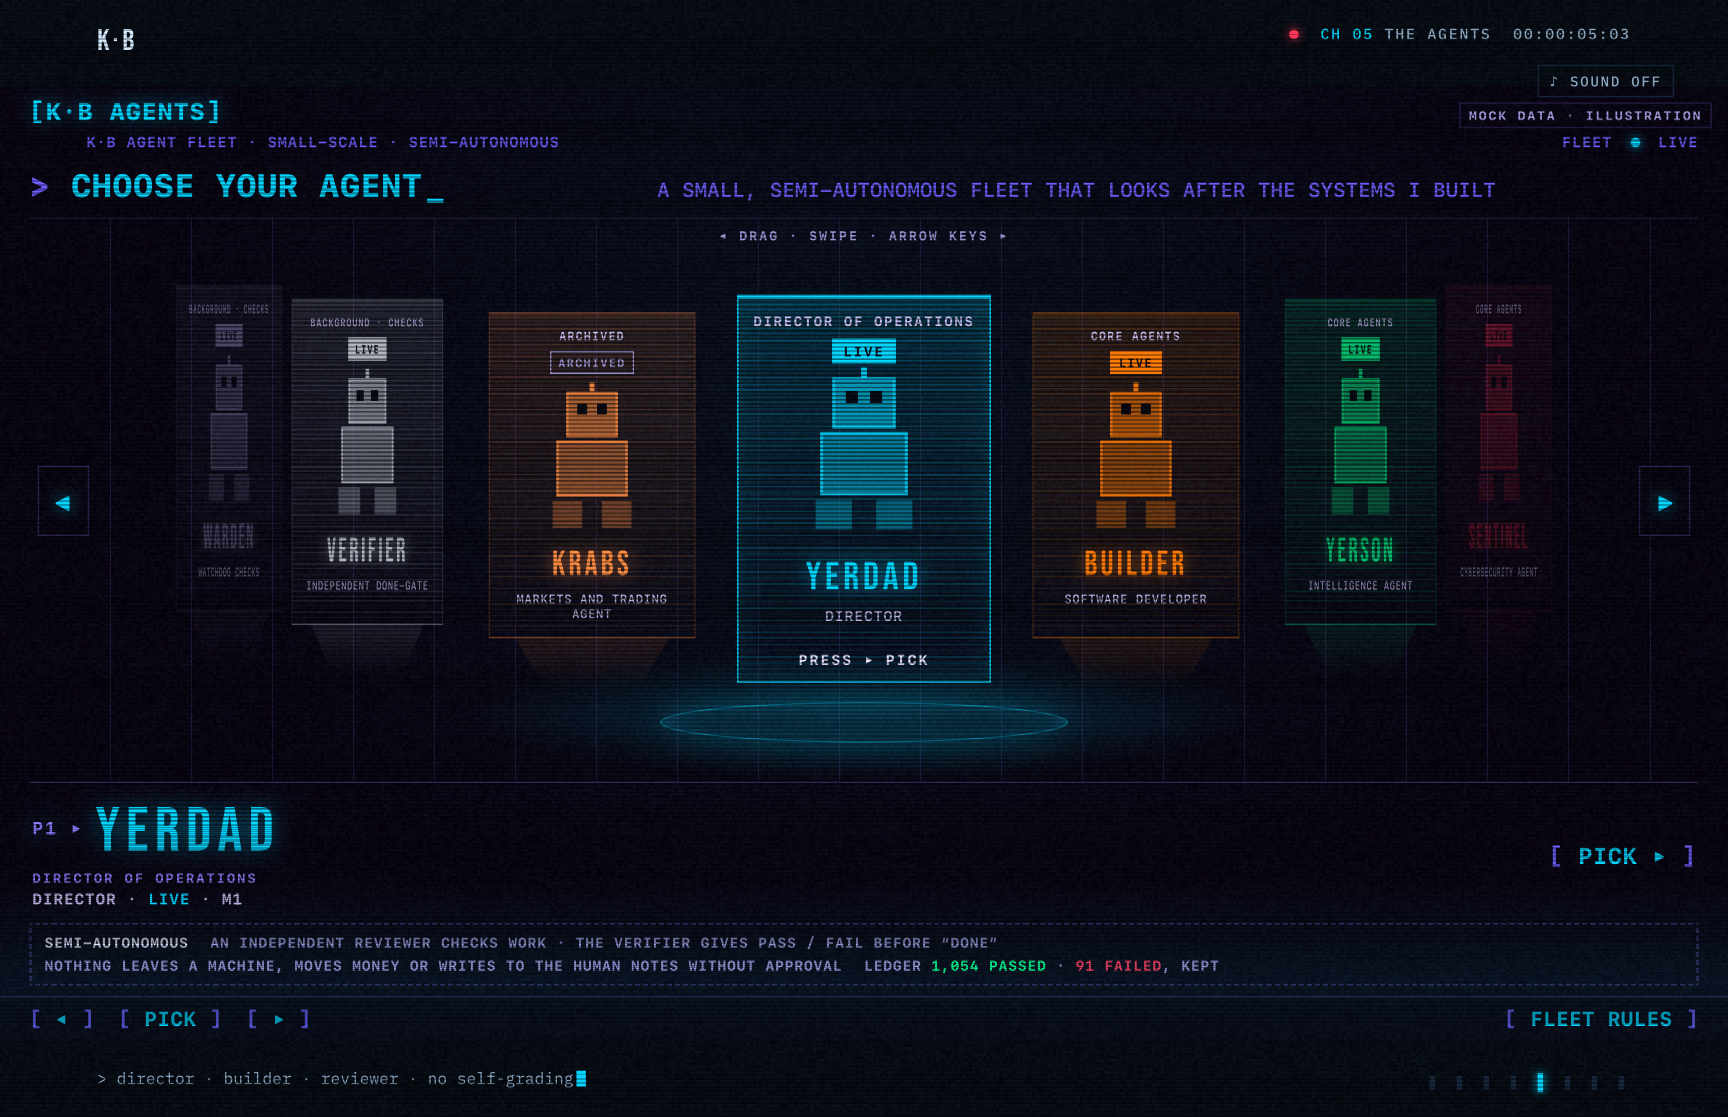
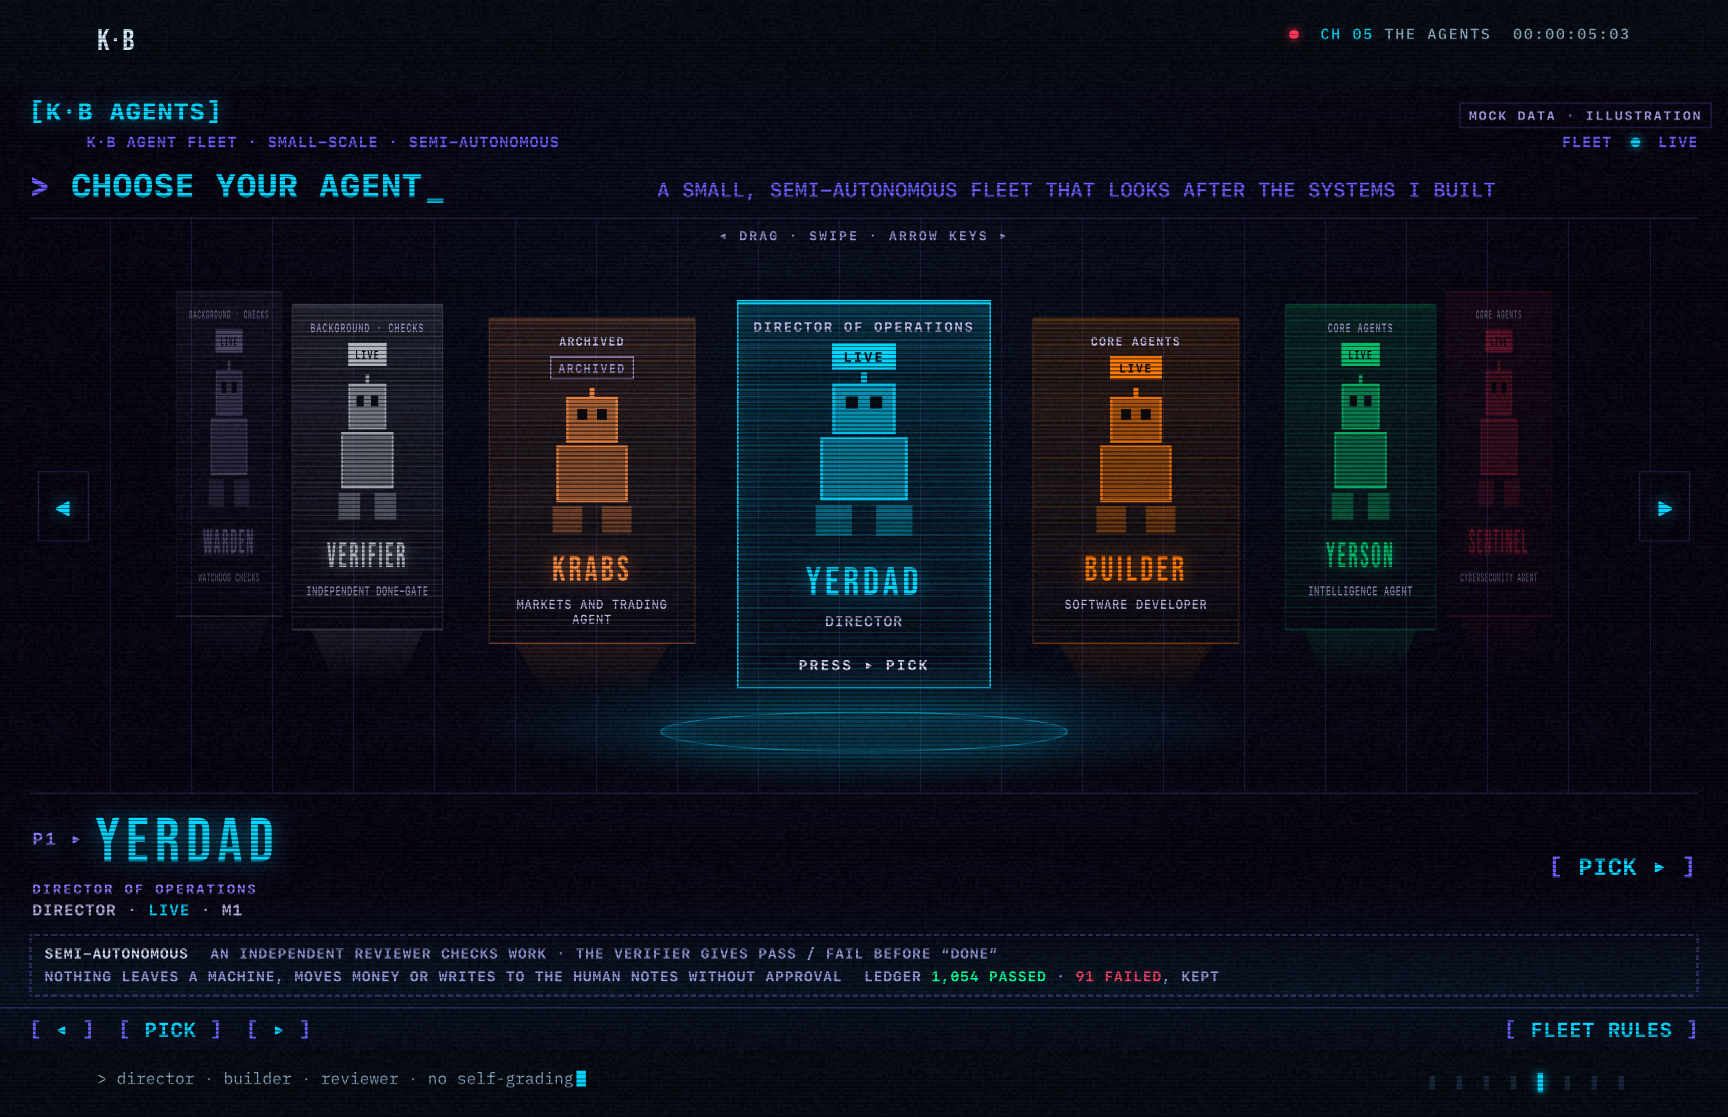
Static grain: pre-rendered tiles, far cheaper per frame (smoother on large screens)

diff --git a/index.html b/index.html
@@ -1694,18 +1694,21 @@ body.under-defence #stage{animation:shake .12s steps(2) 6}
 
   /* ---------- static: a low-res noise field, louder during a channel change ---------- */
   const cv = $('#static'), cx = cv.getContext('2d');
-  // fine grain at any screen size: one noise pixel is about 3 screen pixels, never stretched into big squares
-  let img;
-  function sizeNoise(){ cv.width = Math.max(160, Math.min(900, Math.round(innerWidth / 3))); cv.height = Math.max(100, Math.min(560, Math.round(innerHeight / 3))); img = cx.createImageData(cv.width, cv.height); }
+  // fine grain at any screen size (about 3 screen pixels per grain), and cheap: eight noise tiles are made once,
+  // then each frame just paints one of them as a pattern at a random offset
+  const TILES = [];
+  for (let k = 0; k < 8; k++){ const t = document.createElement('canvas'); t.width = t.height = 128; const tx = t.getContext('2d'), im = tx.createImageData(128, 128), d = im.data;
+    for (let i = 0; i < d.length; i += 4){ const v = Math.random() * 255 | 0; d[i] = v * .55; d[i+1] = v * .85; d[i+2] = v; d[i+3] = 255; }
+    tx.putImageData(im, 0, 0); TILES.push(cx.createPattern(t, 'repeat')); }
+  function sizeNoise(){ cv.width = Math.max(160, Math.min(700, Math.round(innerWidth / 3))); cv.height = Math.max(100, Math.min(440, Math.round(innerHeight / 3))); }
   sizeNoise(); addEventListener('resize', sizeNoise);
   let loud = 0, lastNoise = 0;
   function noise(t){
-    const fps = loud ? 30 : 10;
+    const fps = loud ? 24 : 8;
     if (t - lastNoise > 1000 / fps){
       lastNoise = t;
-      const d = img.data;
-      for (let i = 0; i < d.length; i += 4){ const v = Math.random() * 255 | 0; d[i] = v * .55; d[i+1] = v * .85; d[i+2] = v; d[i+3] = 255; }
-      cx.putImageData(img, 0, 0);
+      const ox = Math.random() * 128 | 0, oy = Math.random() * 128 | 0;
+      cx.save(); cx.translate(-ox, -oy); cx.fillStyle = TILES[Math.random() * TILES.length | 0]; cx.fillRect(0, 0, cv.width + 128, cv.height + 128); cx.restore();
     }
     if (!reduce) requestAnimationFrame(noise);
   }
